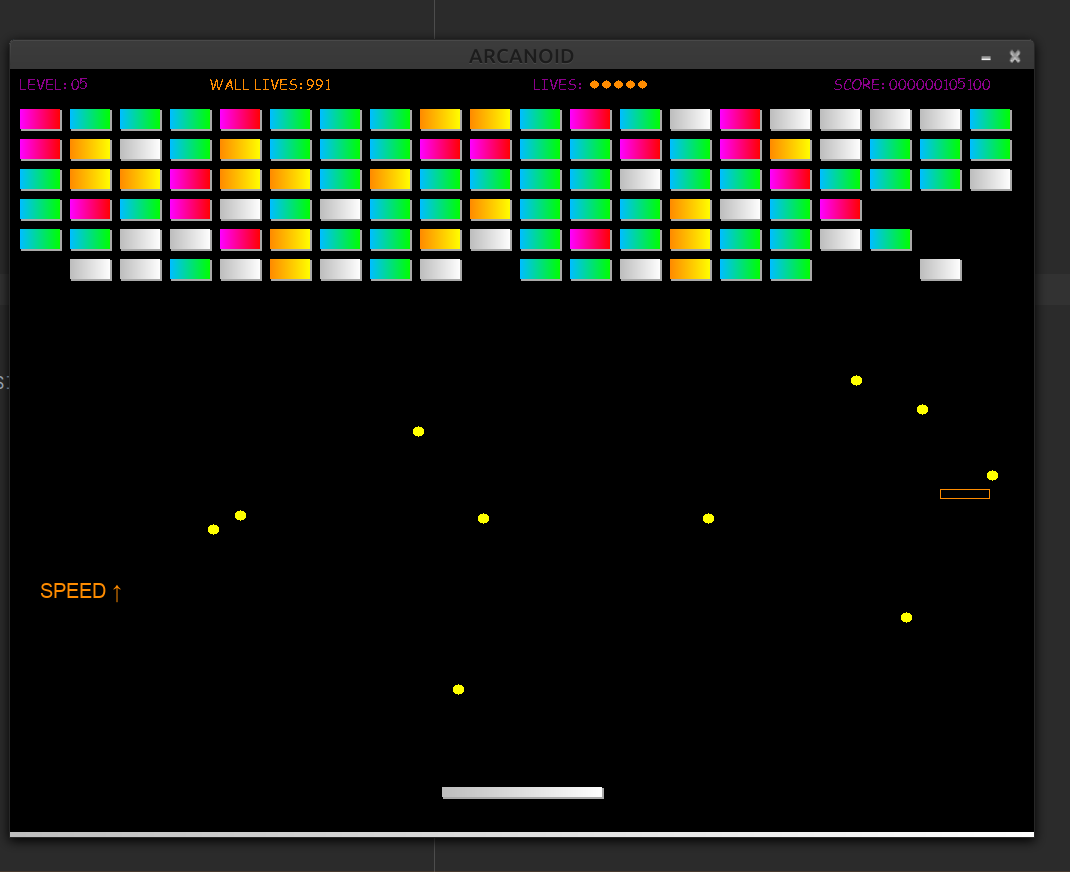
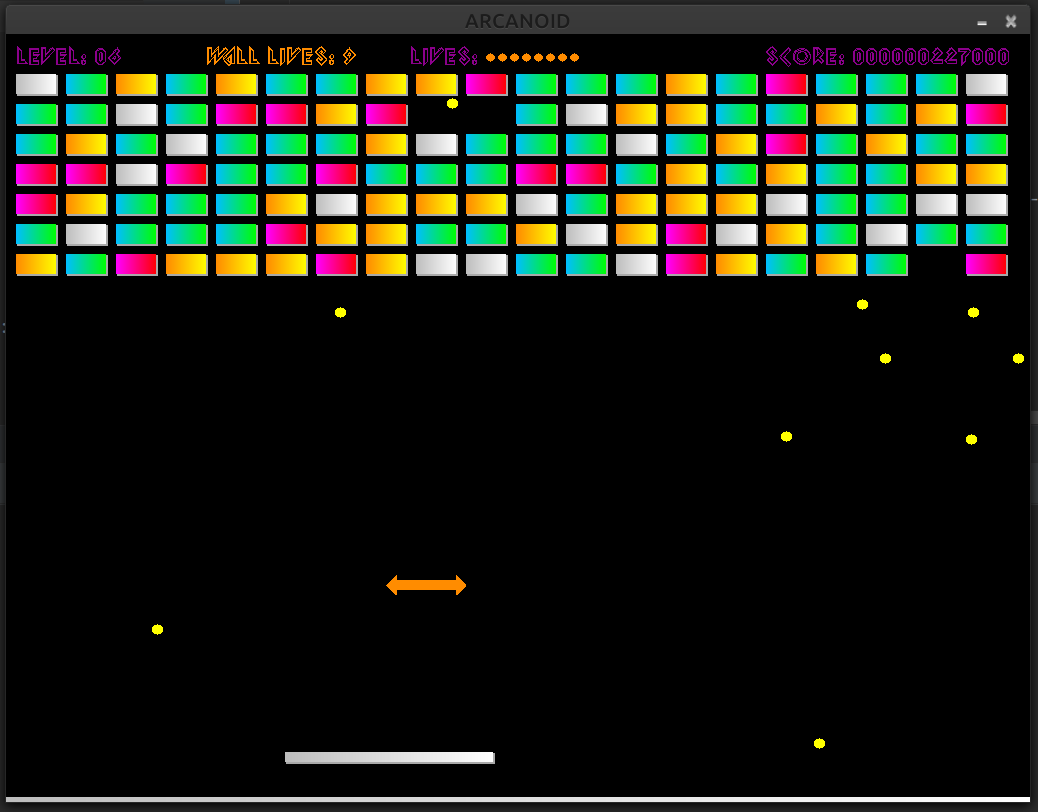
new img and new video

diff --git a/README.md b/README.md
@@ -98,6 +98,6 @@ ____
 
 ## Видео работы приложения
 TODO: Старое, надо перезалить
-[![Watch the video](https://img.youtube.com/vi/8OsAKaevQtY/maxresdefault.jpg)](https://www.youtube.com/watch?v=8OsAKaevQtY)
+[![Watch the video](https://img.youtube.com/vi/FamAeMrPDIY/maxresdefault.jpg)](https://www.youtube.com/watch?v=FamAeMrPDIY)
 ____
 [:arrow_up:Оглавление](#Оглавление)
